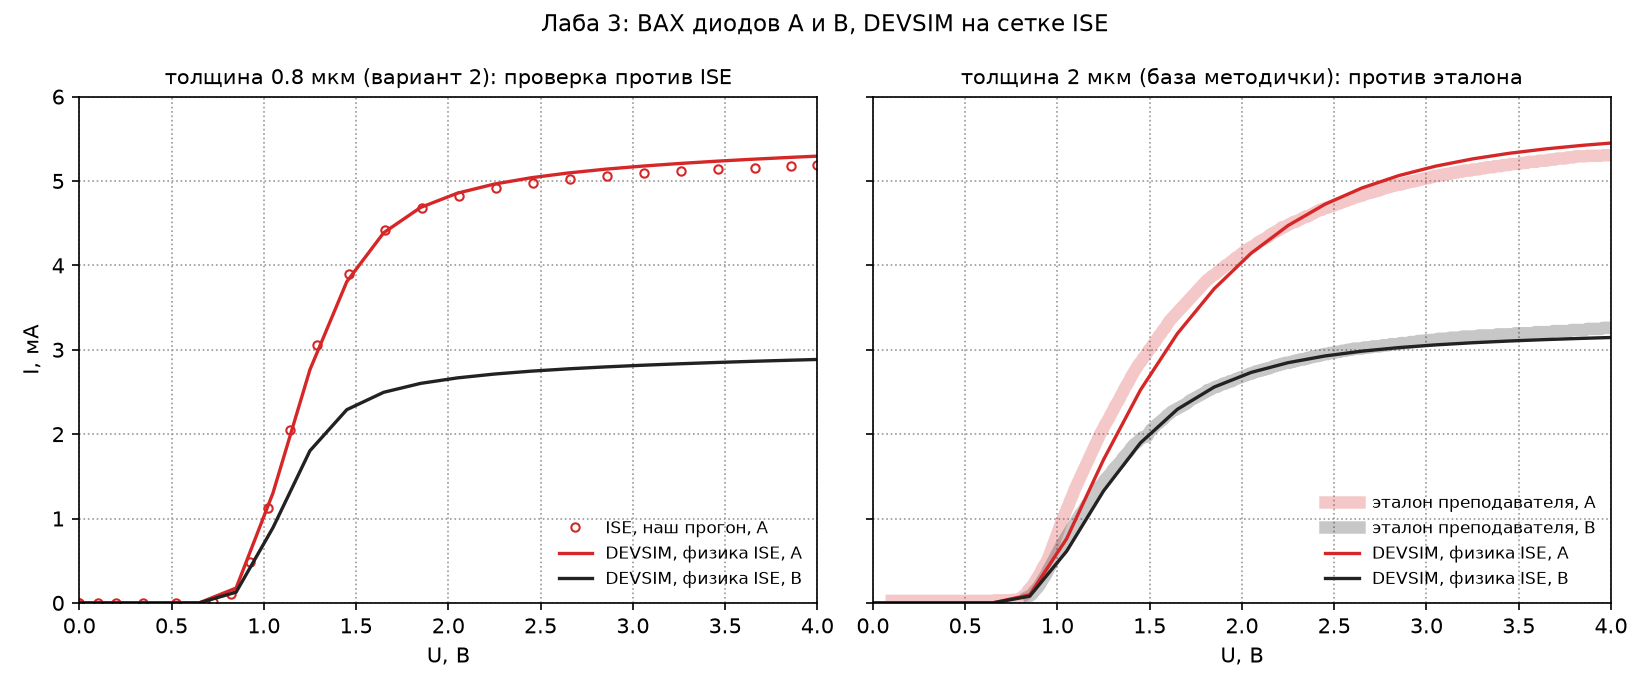
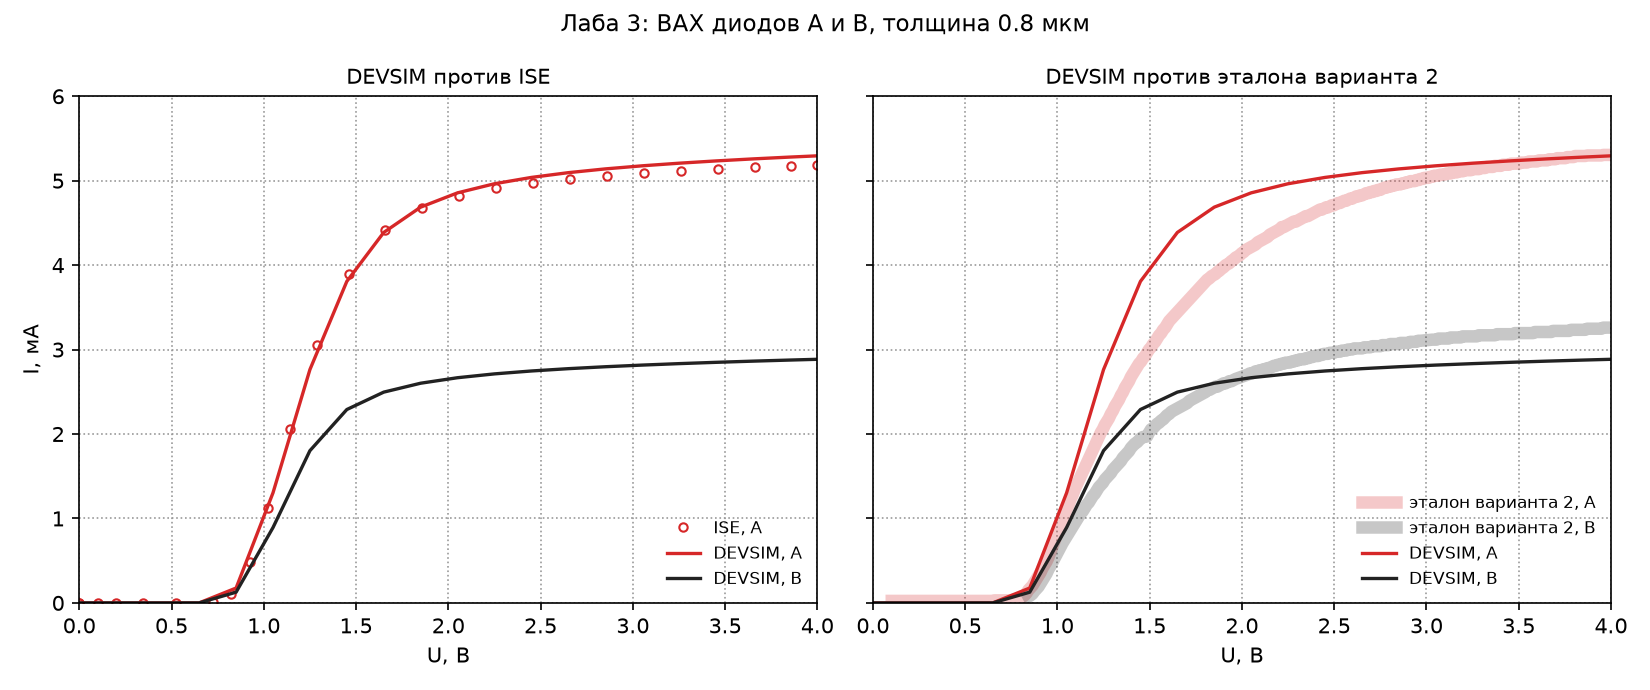
Лаба 3: эталон варианта 2 — 0.8 мкм; расчёты на 2 мкм и выводы о них убраны
Эталоны варианта 2 построены в Sentaurus TCAD 2012 при толщине варианта.
Верификация: DEVSIM против ISE и против эталона, обе панели — 0.8 мкм.

diff --git a/Lab3_diode_3D/devsim/plot_ise.py b/Lab3_diode_3D/devsim/plot_ise.py
@@ -1,12 +1,11 @@
 # -*- coding: utf-8 -*-
-"""ВАХ диодов A и B: DEVSIM с физикой ISE против ISE и эталона преподавателя.
+"""ВАХ диодов A и B: DEVSIM с физикой ISE против ISE и эталона варианта 2.
 
     python plot_ise.py
 
-Две панели:
-  слева  — толщина 0.8 мкм (вариант 2), сетка ISE: проверка решателя против нашего прогона ISE;
-  справа — толщина 2 мкм (базовая структура методички), сетка ISE, растянутая по z в 2.5 раза:
-           против эталона преподавателя (reference/z2_вах.png, цифры — reference_iv.json).
+Две панели, обе — толщина 0.8 мкм (вариант 2), сетка ISE:
+  слева  — проверка решателя против нашего прогона ISE (диод A);
+  справа — против эталона варианта 2 (reference/z2_вах.png, цифры — reference_iv.json).
 Пишет ../results/devsim_ise/вах.png и печатает таблицы для README.
 """
 import json, os, sys
@@ -37,7 +36,6 @@ def at(c, v):
 
 def main():
     A8, B8 = load("iv_ise_A_isemesh_clip.json"), load("iv_ise_B_isemeshA_clip.json")
-    A2, B2 = load("iv_ise_A_isemesh_lz2_clip.json"), load("iv_ise_B_isemeshA_lz2_clip.json")
     d = viz.read_plt(os.path.join(HERE, "..", "ise", "sA_des.plt"))
     ise = np.asarray(d["Anode OuterVoltage"]), np.abs(np.asarray(d["Anode TotalCurrent"]))
     ref = json.load(open(os.path.join(HERE, "reference_iv.json")))
@@ -45,39 +43,32 @@ def main():
 
     os.makedirs(OUT, exist_ok=True)
     fig, (ax1, ax2) = plt.subplots(1, 2, figsize=(11, 4.6), dpi=150, sharey=True)
-    ax1.plot(ise[0], ise[1] * 1e3, "o", color=RED, ms=4, mfc="none", label="ISE, наш прогон, A")
-    for c, col, name in ((A8, RED, "A"), (B8, BLACK, "B")):
-        if c is not None:
-            ax1.plot(c[0], c[1] * 1e3, color=col, lw=1.6, label="DEVSIM, физика ISE, " + name)
-    ax1.set_title("толщина 0.8 мкм (вариант 2): проверка против ISE", fontsize=10)
-    ax2.plot(rA[0], rA[1] * 1e3, color=RED, lw=6, alpha=0.25, label="эталон преподавателя, A")
-    ax2.plot(rB[0], rB[1] * 1e3, color=BLACK, lw=6, alpha=0.25, label="эталон преподавателя, B")
-    for c, col, name in ((A2, RED, "A"), (B2, BLACK, "B")):
-        if c is not None:
-            ax2.plot(c[0], c[1] * 1e3, color=col, lw=1.6, label="DEVSIM, физика ISE, " + name)
-    ax2.set_title("толщина 2 мкм (база методички): против эталона", fontsize=10)
+    ax1.plot(ise[0], ise[1] * 1e3, "o", color=RED, ms=4, mfc="none", label="ISE, A")
+    ax2.plot(rA[0], rA[1] * 1e3, color=RED, lw=6, alpha=0.25, label="эталон варианта 2, A")
+    ax2.plot(rB[0], rB[1] * 1e3, color=BLACK, lw=6, alpha=0.25, label="эталон варианта 2, B")
+    for ax in (ax1, ax2):
+        for c, col, name in ((A8, RED, "A"), (B8, BLACK, "B")):
+            if c is not None:
+                ax.plot(c[0], c[1] * 1e3, color=col, lw=1.6, label="DEVSIM, " + name)
+    ax1.set_title("DEVSIM против ISE", fontsize=10)
+    ax2.set_title("DEVSIM против эталона варианта 2", fontsize=10)
     for ax in (ax1, ax2):
         ax.set_xlim(0, 4); ax.set_ylim(0, 6)
         ax.set_xlabel("U, В"); ax.grid(ls=":", color="#999999")
         ax.legend(fontsize=8, frameon=False, loc="lower right")
     ax1.set_ylabel("I, мА")
-    fig.suptitle("Лаба 3: ВАХ диодов A и B, DEVSIM на сетке ISE", fontsize=11)
+    fig.suptitle("Лаба 3: ВАХ диодов A и B, толщина 0.8 мкм", fontsize=11)
     fig.tight_layout()
     png = os.path.join(OUT, "вах.png")
     fig.savefig(png); print("картинка:", os.path.abspath(png))
 
     vs = (1.0, 1.5, 2.0, 2.5, 3.0, 3.5, 3.95)
-    print("\n0.8 мкм — против ISE:\n| U, В | A, мА | ISE A, мА | A/ISE | B, мА | B ниже A |")
-    print("|---|---|---|---|---|---|")
+    print("\n| U, В | A, мА | ISE A | эталон A | B, мА | эталон B | B ниже A | эталон: B ниже A |")
+    print("|---|---|---|---|---|---|---|---|")
     for v in vs:
-        a, b, i = at(A8, v), at(B8, v), at(ise, v)
-        print("| %.2f | %.3f | %.3f | %.3f | %.3f | %.0f %% |" % (v, a * 1e3, i * 1e3, a / i, b * 1e3, 100 * (1 - b / a)))
-    print("\n2 мкм — против эталона:\n| U, В | A, мА | эталон A | A/эт | B, мА | эталон B | B/эт | B ниже A | эталон: B ниже A |")
-    print("|---|---|---|---|---|---|---|---|---|")
-    for v in vs:
-        a, b, ra, rb = at(A2, v), at(B2, v), at(rA, v), at(rB, v)
-        print("| %.2f | %.3f | %.3f | %.3f | %.3f | %.3f | %.3f | %.0f %% | %.0f %% |"
-              % (v, a * 1e3, ra * 1e3, a / ra, b * 1e3, rb * 1e3, b / rb, 100 * (1 - b / a), 100 * (1 - rb / ra)))
+        a, b, i, ra, rb = at(A8, v), at(B8, v), at(ise, v), at(rA, v), at(rB, v)
+        print("| %.2f | %.3f | %.3f | %.3f | %.3f | %.3f | %.1f %% | %.1f %% |"
+              % (v, a * 1e3, i * 1e3, ra * 1e3, b * 1e3, rb * 1e3, 100 * (1 - b / a), 100 * (1 - rb / ra)))
 
 
 if __name__ == "__main__":

diff --git a/Lab3_diode_3D/devsim/run_ise.py b/Lab3_diode_3D/devsim/run_ise.py
@@ -39,7 +39,7 @@ def main():
     ap.add_argument("--fast", action="store_true",
                     help="без float128 (мелкие сетки): ниже 0.7 В допуск 1e-5 — ток там ~1e-6 А и меньше")
     ap.add_argument("--lz", type=float, default=0.8,
-                    help="толщина, мкм: 2 — базовая структура методички (сетка растягивается по z)")
+                    help="толщина, мкм (по умолчанию 0.8 — вариант 2; сетка ISE масштабируется по z)")
     ap.add_argument("--tensor", type=int, default=0, metavar="N",
                     help="тензорная сетка на осях ISE, каждый отрезок делится на N (tools/tensor_mesh.py)")
     ap.add_argument("--gmsh", type=float, default=None, metavar="SCALE",
@@ -96,7 +96,7 @@ def main():
             print("анод B вырезан из сетки A: %d треугольников из %d" % (keep.sum(), len(tri)), flush=True)
         if a.lz != 0.8:
             # сетка ISE по варианту 2 — это сетка методички, сжатая по z в 2/0.8 = 2.5 раза;
-            # растянув обратно, получаем сетку преподавателя для базовой толщины 2 мкм
+            # масштабирование сетки ISE по z под другую толщину
             g["vertices"] = g["vertices"] * np.array([1.0, 1.0, a.lz / 0.8])
             print("сетка растянута по z до толщины %g мкм" % a.lz, flush=True)
         print("сетка ISE (%s): %d узлов" % (src, len(g["vertices"])), flush=True)

diff --git a/Lab3_diode_3D/devsim/reference_iv.py b/Lab3_diode_3D/devsim/reference_iv.py
@@ -1,5 +1,5 @@
 # -*- coding: utf-8 -*-
-"""ВАХ преподавателя (эталон методички) — цифрами, снятыми с reference/z2_вах.png.
+"""ВАХ эталона варианта 2 — цифрами, снятыми с reference/z2_вах.png.
 
 Красная кривая — диод A, чёрная — диод B. Оси калибруются по линиям сетки самой
 картинки (пунктир 1, 2, 3 В и 0.002, 0.004 А) и по рамке (0 В, 4 В, 0 А).

diff --git a/notes/ise_in_practice.md b/notes/ise_in_practice.md
@@ -109,8 +109,8 @@
 память виртуалки с 1 до 3 ГБ. При 3 ГБ расчёт перестал прерываться сразу и доходил до
 0.04–0.4 В, от запуска к запуску по-разному, иногда расходясь в `1.#QNAN`. Отличие B от A
 только в аноде: его край на x = 0.5 приходится на середину грани, там особенность
-поля. У преподавателя B считался при толщине 2 мкм; по варианту 2 толщина 0.8, и
-ячейки по Oz сжаты в 2.5 раза.
+поля. В примере из методических указаний структура толще, а по варианту 2 ячейки
+по Oz сжаты в 2.5 раза.
 
 **Ненадёжные признаки успешного расчёта:**
 
